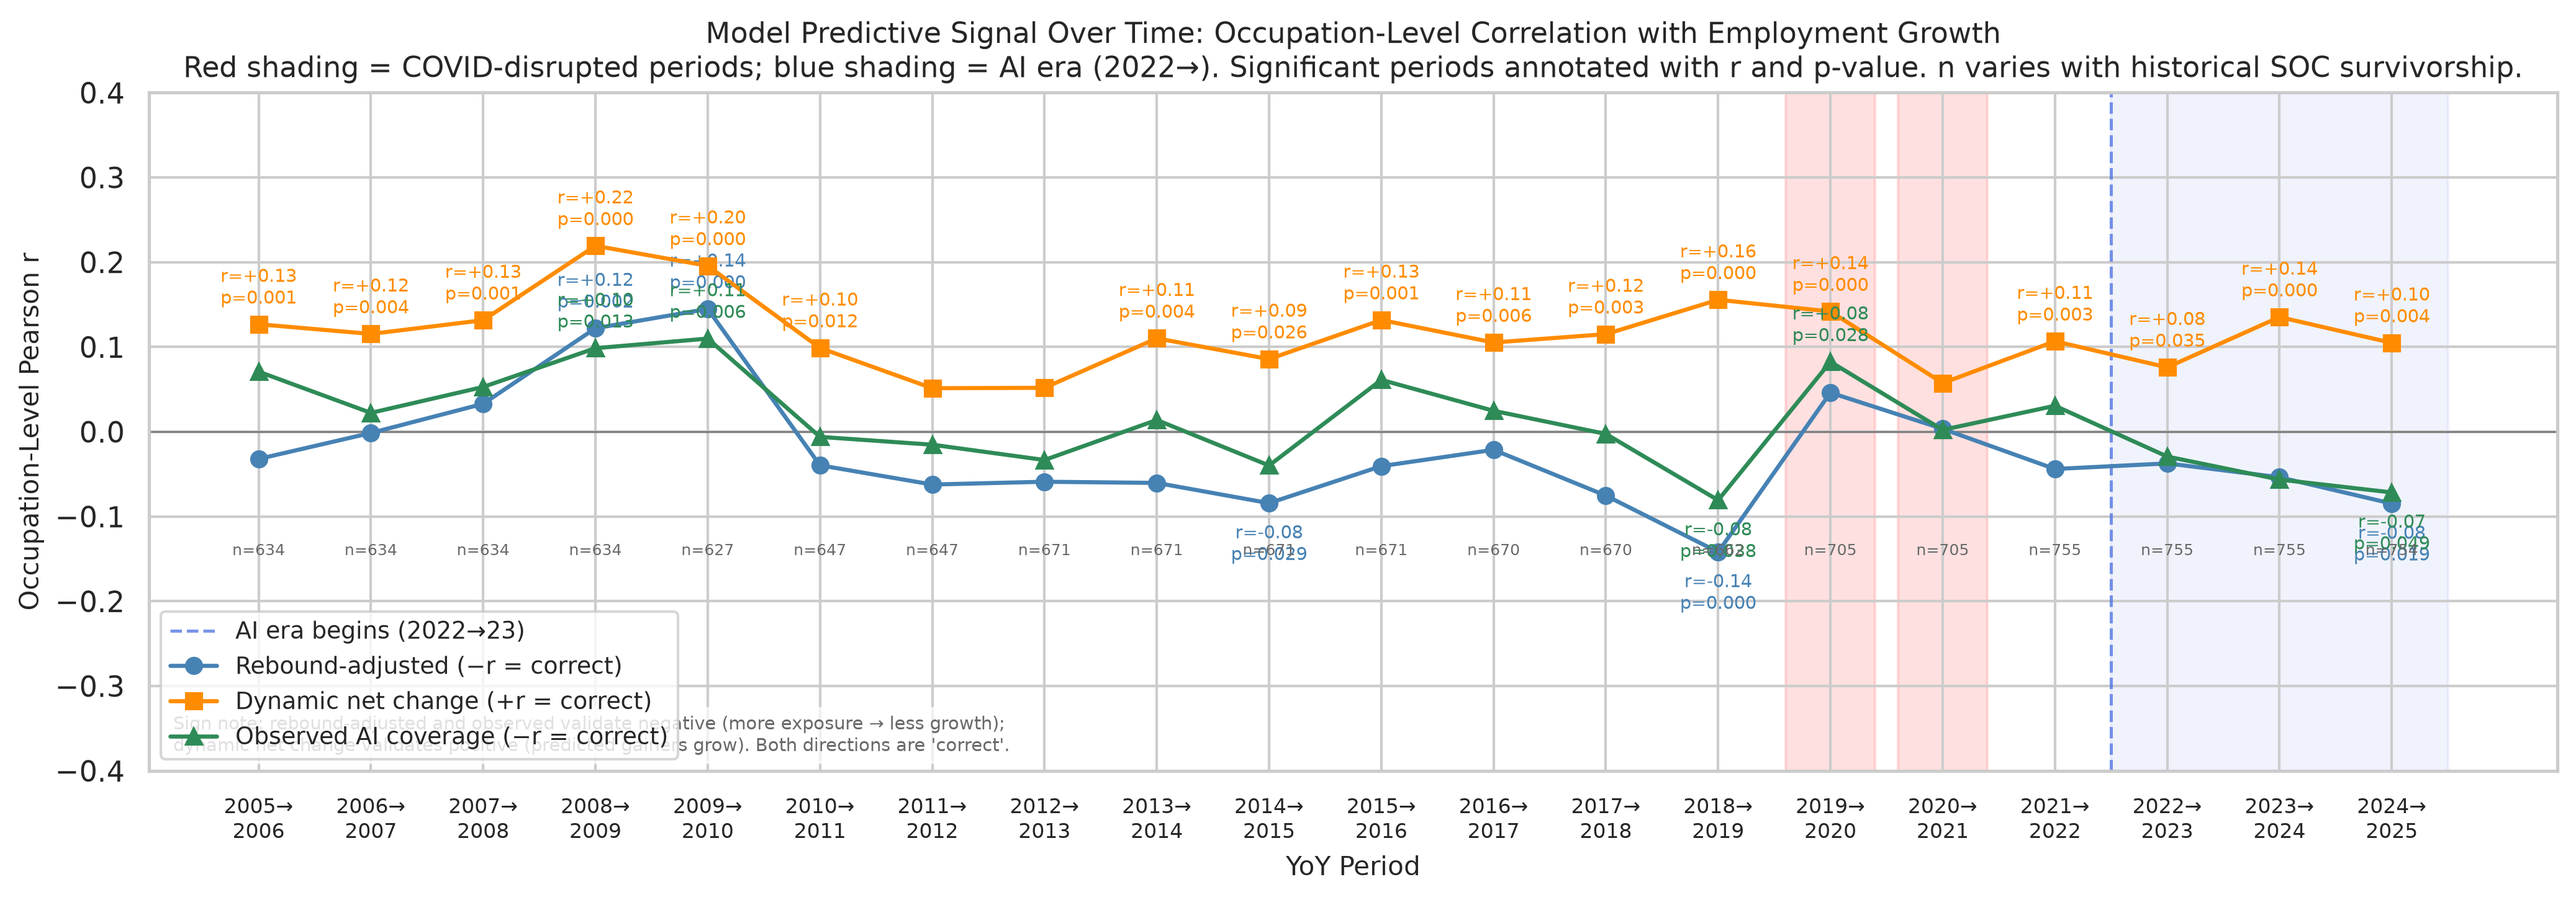
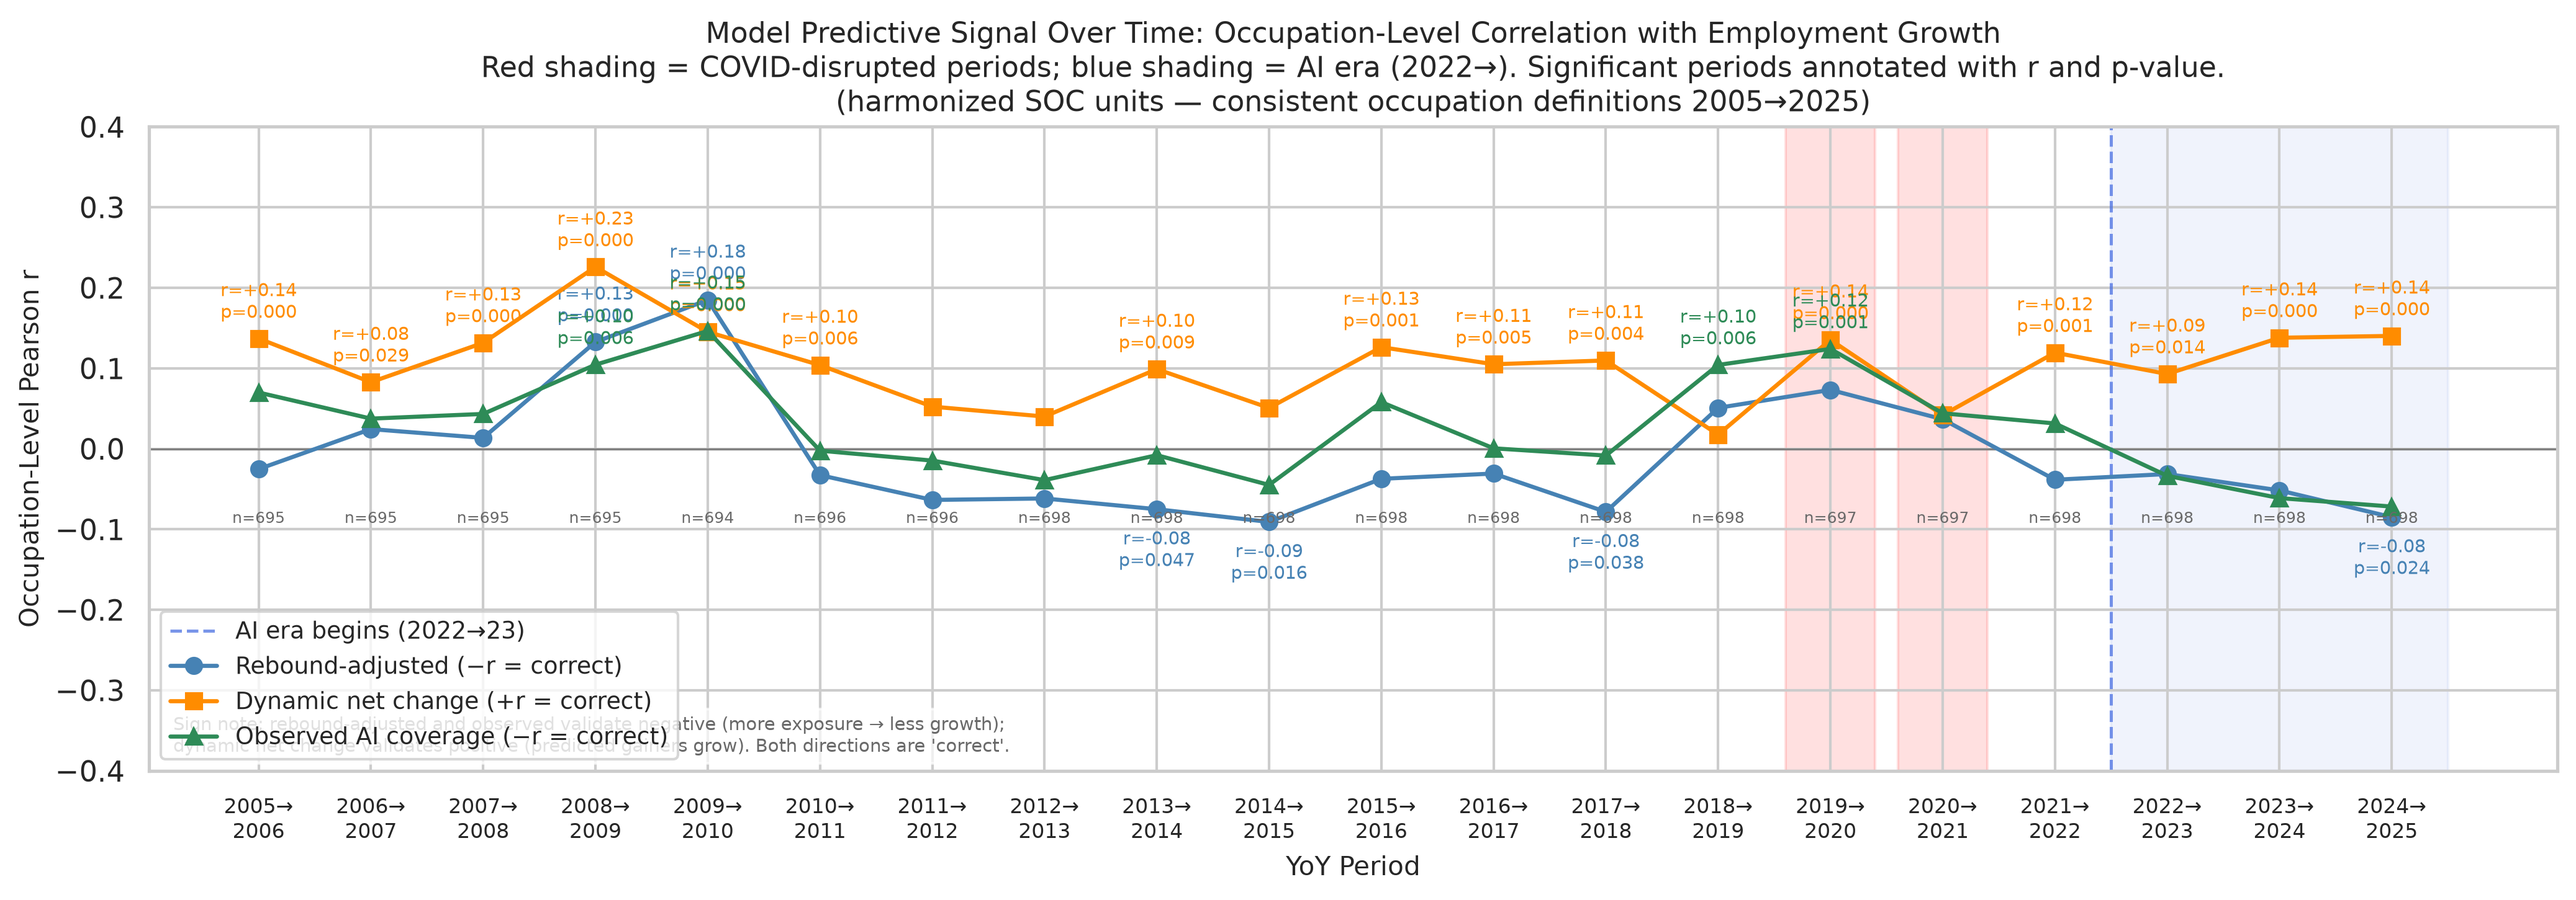
Run the occupation-level historical validation on harmonized units
The occupation-level signal-over-time chart now correlates unit scores —
the 2025-employment-weighted mean over each unit's 2022 members — against
unit growth from bls_harmonized_trends.csv, so pre-2019 points no longer
rest on whichever detailed codes survived the SOC revisions. n is close to
constant across periods. Sector-level results are unchanged.

Claude-Session: https://claude.ai/code/session_01ABsa9R4RRs4nbCa8W3Zz2Q

diff --git a/validate_bls.py b/validate_bls.py
@@ -643,13 +643,16 @@ def plot_model_signal_over_time_occupation(
     dynamic_validation_df: pd.DataFrame,
     output_dir: str,
     anthropic_exp_df: pd.DataFrame | None = None,
+    harmonized_trends_df: pd.DataFrame | None = None,
+    unit_membership_df: pd.DataFrame | None = None,
 ) -> None:
     """
     Occupation-level Pearson r between each model score and YoY employment growth,
     plotted as a time series spanning 2005→2025. Unlike the sector-level version,
-    no aggregation step is applied — each occupation is one data point. n varies by
-    period due to historical SOC code survivorship (~82% for 2005–2009, ~83–87%
-    for 2010–2018, higher for 2019+). Significant periods annotated with r, p, and n.
+    no sector aggregation step is applied — each occupation, or each harmonized
+    SOC unit, is one data point. n counts harmonized units when
+    bls_harmonized_trends.csv is present, else surviving 2022 codes. Significant
+    periods annotated with r, p, and n.
     """
 
     # Collect all YoY growth columns in chronological order
@@ -673,6 +676,8 @@ def plot_model_signal_over_time_occupation(
     if len(all_period_cols) < 2:
         return
 
+    latest_emp_col = sorted(c for c in merged_validation_df.columns if c.startswith("TOT_EMP_"))[-1]
+
     base_df = merged_validation_df.copy()
     base_df = base_df.merge(
         dynamic_validation_df[["OCC_CODE", "net_employment_change"]],
@@ -685,8 +690,30 @@ def plot_model_signal_over_time_occupation(
         obs_df = anthropic_exp_df.rename(columns=obs_col_map)[["OCC_CODE", "observed_exposure"]]
         base_df = base_df.merge(obs_df, on="OCC_CODE", how="left")
 
+    # On harmonized units every period is measured on the same occupation definitions,
+    # so n no longer swings with which detailed codes happened to survive a SOC revision.
+    use_units = harmonized_trends_df is not None and unit_membership_df is not None
+    if use_units:
+        score_cols_present = [
+            score_col for score_col in ("occupation_exposure", "net_employment_change", "observed_exposure") if score_col in base_df.columns
+        ]
+        unit_scores_df = build_unit_scores(base_df, unit_membership_df, latest_emp_col, score_cols_present)
+        growth_cols_present = [column for column in harmonized_trends_df.columns if "emp_growth_" in column]
+        base_df = unit_scores_df.merge(harmonized_trends_df[["unit_id"] + growth_cols_present], on="unit_id", how="inner")
+        hist_yoy = sorted(
+            [c for c in base_df.columns if c.startswith("hist_emp_growth_") and "_pre_ai" not in c],
+            key=_sort_period,
+        )
+        current_yoy = sorted(
+            [c for c in base_df.columns if c.startswith("emp_growth_") and "composite" not in c],
+            key=_sort_period,
+        )
+        all_period_cols = hist_yoy + current_yoy
+        if len(all_period_cols) < 2:
+            return
+
     def _occupation_r(emp_col: str, score_col: str) -> tuple[float, float, int] | None:
-        """Compute occupation-level Pearson r for one period and score column."""
+        """Compute unit- or occupation-level Pearson r for one period and score column."""
         subset = base_df[[score_col, emp_col]].dropna()
         if len(subset) < 20:
             return None
@@ -777,12 +804,18 @@ def plot_model_signal_over_time_occupation(
     ax.set_xticklabels(period_labels, fontsize=8)
     ax.set_ylabel("Occupation-Level Pearson r", fontsize=10)
     ax.set_xlabel("YoY Period", fontsize=10)
-    ax.set_title(
+    chart_title = (
         "Model Predictive Signal Over Time: Occupation-Level Correlation with Employment Growth\n"
         "Red shading = COVID-disrupted periods; blue shading = AI era (2022→). "
-        "Significant periods annotated with r and p-value. n varies with historical SOC survivorship.",
-        fontsize=11,
+        "Significant periods annotated with r and p-value."
     )
+    # Off units, n is whatever survived the SOC revisions; on units it is the unit count.
+    chart_title += (
+        "\n(harmonized SOC units — consistent occupation definitions 2005→2025)"
+        if use_units
+        else " n varies with historical SOC survivorship."
+    )
+    ax.set_title(chart_title, fontsize=11)
     ax.legend(fontsize=9, loc="lower left")
     ax.set_ylim(-0.4, 0.4)
 
@@ -1054,9 +1087,61 @@ def load_sector_growth_table(path: str = "data/output/bls_sector_trends.csv") ->
     return sector_trends_df.set_index("soc_major")
 
 
+def load_harmonized_trends(path: str = "data/output/bls_harmonized_trends.csv") -> pd.DataFrame | None:
+    """Unit-level trend series from analyze_bls.py; None (with a warning) if the analyze stage did not write it."""
+    if not os.path.exists(path):
+        print(f"Warning: {path} not found — occupation-level history will use surviving 2022 codes.")
+        return None
+    return pd.read_csv(path, dtype={"unit_id": str})
+
+
+def load_unit_membership(path: str = "data/output/soc_harmonization_units.csv") -> pd.DataFrame | None:
+    """Per-year unit membership from analyze_bls.py; None if absent."""
+    if not os.path.exists(path):
+        return None
+    return pd.read_csv(path, dtype={"unit_id": str, "year": str, "oews_code": str})
+
+
+def build_unit_scores(
+    merged_validation_df: pd.DataFrame,
+    unit_membership_df: pd.DataFrame,
+    employment_col: str,
+    score_cols: list[str],
+    anchor_year: str = "22",
+) -> pd.DataFrame:
+    """
+    Employment-weighted mean of each model score over a unit's anchor-year OEWS codes.
+
+    merged_validation_df is keyed on the 2022 OEWS code set, so a unit's score is
+    the weighted mean over its year-22 members that were scored. Weights are
+    renormalised over members with a non-missing score, and units with no scored
+    member are omitted.
+    """
+    anchor_members_df = unit_membership_df[unit_membership_df["year"] == anchor_year][["unit_id", "oews_code"]]
+    scored_members_df = anchor_members_df.merge(
+        merged_validation_df[["OCC_CODE", employment_col] + score_cols],
+        left_on="oews_code",
+        right_on="OCC_CODE",
+        how="inner",
+    )
+    unit_score_rows = []
+    for unit_id, member_rows_df in scored_members_df.groupby("unit_id"):
+        unit_score_row: dict[str, float | str] = {"unit_id": unit_id}
+        for score_col in score_cols:
+            scored_rows_df = member_rows_df.dropna(subset=[score_col, employment_col])
+            weight_total = scored_rows_df[employment_col].sum()
+            unit_score_row[score_col] = (
+                (scored_rows_df[score_col] * scored_rows_df[employment_col]).sum() / weight_total if weight_total > 0 else float("nan")
+            )
+        unit_score_rows.append(unit_score_row)
+    return pd.DataFrame(unit_score_rows, columns=["unit_id"] + score_cols)
+
+
 def main():
     bls_trends_df = pd.read_csv("data/output/bls_trends.csv")
     sector_growth_df = load_sector_growth_table()
+    harmonized_trends_df = load_harmonized_trends()
+    unit_membership_df = load_unit_membership()
     occupation_exposure_df = pd.read_csv("data/output/occupation_exposure_report.csv")
 
     occupation_exposure_df["OCC_CODE"] = occupation_exposure_df["O*NET-SOC Code"].astype(str).str.split(".").str[0]
@@ -1383,7 +1468,14 @@ def main():
     plot_model_signal_over_time(
         merged_validation_df, dynamic_validation_df, output_dir, _anthropic_exp_df, signal_cps_panel_df, sector_growth_df=sector_growth_df
     )
-    plot_model_signal_over_time_occupation(merged_validation_df, dynamic_validation_df, output_dir, _anthropic_exp_df)
+    plot_model_signal_over_time_occupation(
+        merged_validation_df,
+        dynamic_validation_df,
+        output_dir,
+        _anthropic_exp_df,
+        harmonized_trends_df=harmonized_trends_df,
+        unit_membership_df=unit_membership_df,
+    )
 
     # ── AI exposure volume ────────────────────────────────────────────────────
     # exposure_volume = (occupation employment / total modeled employment) × mean_penetration

diff --git a/tests/test_pipeline.py b/tests/test_pipeline.py
@@ -30,6 +30,7 @@ from synthesize_impacts import (
     derive_exposure_tier,
     rollup_to_occupation,
 )
+from validate_bls import build_unit_scores
 
 
 def _task_df(rows):
@@ -621,3 +622,29 @@ class TestAttachDominantDemand:
             )[0]
             assert row["dominant_demand"] == expected
             assert row["dominant_strength"] == pytest.approx(row[f"pct_{expected.lower()}"])
+
+
+class TestBuildUnitScores:
+    def test_scores_are_employment_weighted_over_anchor_year_members(self):
+        merged_validation_df = pd.DataFrame(
+            {
+                "OCC_CODE": ["15-1252", "15-1253", "11-9013"],
+                "TOT_EMP_25": [1000.0, 200.0, 50.0],
+                "occupation_exposure": [0.10, 0.40, 0.02],
+                "net_employment_change": [0.15, None, -0.05],
+            }
+        )
+        unit_membership_df = pd.DataFrame(
+            {
+                "unit_id": ["U-15-1252", "U-15-1252", "U-15-1252", "U-11-9013", "U-99-0000"],
+                "year": ["22", "22", "21", "22", "22"],
+                "oews_code": ["15-1252", "15-1253", "15-1132", "11-9013", "99-0000"],
+            }
+        )
+        unit_scores_df = build_unit_scores(
+            merged_validation_df, unit_membership_df, "TOT_EMP_25", ["occupation_exposure", "net_employment_change"]
+        ).set_index("unit_id")
+        assert unit_scores_df.loc["U-15-1252", "occupation_exposure"] == pytest.approx(0.15)
+        assert unit_scores_df.loc["U-15-1252", "net_employment_change"] == pytest.approx(0.15)
+        assert unit_scores_df.loc["U-11-9013", "occupation_exposure"] == pytest.approx(0.02)
+        assert "U-99-0000" not in unit_scores_df.index

diff --git a/docs/charts/model_signal_over_time_occupation.md b/docs/charts/model_signal_over_time_occupation.md
@@ -8,9 +8,9 @@
 
 Occupation-level Pearson r between each model score and YoY BLS employment growth,
 plotted as a time series spanning 2005→2025. Unlike the sector-level version
-(`model_signal_over_time.png`), no aggregation step is applied — each occupation
-is one data point. n varies by period due to historical SOC code survivorship
-and is annotated along the bottom of the chart.
+(`model_signal_over_time.png`), no sector aggregation step is applied — each
+harmonized SOC unit is one data point. n is annotated along the bottom of the
+chart and is now close to constant across periods (see *Harmonized units* below).
 
 | Line | Score | Correct sign | Direction |
 |------|-------|:------------:|-----------|
@@ -26,7 +26,7 @@ the AI era (2022→23 onward); significant periods (p < 0.05) are annotated with
 The sector-level chart (`model_signal_over_time.png`) aggregates occupations to 22
 SOC major groups first and correlates those 22 group means. That version has low
 power (n=22) but suppresses within-group noise by averaging. This chart operates on
-raw occupations (n ≈ 400–830 depending on the period), giving much higher statistical
+harmonized occupation units (n ≈ 695 in every period), giving much higher statistical
 power — a much smaller |r| is detectable — but also more noise from individual
 occupation volatility.
 
@@ -53,16 +53,47 @@ variation, but the negative direction is persistent.
 concentration in low-exposure physical occupations temporarily pushes gross models
 toward negative r regardless of mechanism.
 
-## Survivorship note
+## Harmonized units
 
-Historical BLS files use different SOC code generations (SOC 2000 for 2005–2009,
-SOC 2010 for 2010–2018). The occupation set is anchored at 2022 (SOC 2018 codes)
-and all earlier years are left-joined. Occupations whose codes changed across
-generations produce NaN for those historical columns and are excluded from those
-periods' correlations. Survivorship is ~82% for 2005–2009, ~83–87% for 2010–2018
-overall, but it is very uneven by sector — Computer and Mathematical keeps 3% of
-its employment before 2019 — so pre-2019 points here under-represent the sectors
-the SOC 2018 revision renumbered. The sector-level chart avoids this by using
-major-group totals; this occupation-level chart cannot, short of a full SOC
-crosswalk harmonisation, which is not implemented. The per-period n is shown at
-the bottom of the chart.
+Each point in a period's correlation is a **harmonized unit**, not a raw BLS
+occupation code. A unit is a connected component of the published BLS SOC
+crosswalks (SOC 2000 → SOC 2010 → SOC 2018) plus the OEWS hybrid structure,
+built by `harmonize_soc.py` and written to
+`data/output/soc_harmonization_units.csv`. Where a revision split one
+occupation into three, or merged three into one, all of those codes land in the
+same unit, so the unit means the same thing in 2005 as it does in 2025.
+
+**Why this is necessary.** Anchoring on the 2022 code set and left-joining
+earlier years keeps only the codes that happened to survive each revision —
+about 82% for 2005–2009 and 83–87% for 2010–2018 overall, but very uneven by
+sector. SOC 2018 renumbered every computer code, so Computer and Mathematical
+kept four maths occupations, roughly 3% of its employment, before 2019. Pre-2019
+points computed that way silently under-represented exactly the sectors the
+models care most about. Correlating on units removes that selection: the same
+occupation definitions carry the whole 2005→2025 span.
+
+**What n is.** The unit file holds 751 units. A unit enters the chart when at
+least one of its 2022 OEWS member codes carries a model score — 706 do — and
+drops out of a period only when its growth for that period is NaN, leaving
+n ≈ 695 in every period. Before harmonization the pre-2019 n sat around 650–690
+and dipped unevenly by sector; it is now essentially flat, so movement in the
+lines is signal rather than a changing sample.
+
+A unit's score is the 2025-employment-weighted mean over its scored 2022
+members, with weights renormalised over the members that actually have the
+score; its growth comes from `data/output/bls_harmonized_trends.csv`, which sums
+each unit's member employment per year before differencing.
+
+**Where a unit is still NaN.** A unit's year is NaN — never 0 — when its
+membership for that year is incomplete: a member code OEWS publishes was
+suppressed or absent from that year's file. Summing the members that remain
+would read as a collapse in employment rather than as the missing observation
+it is. That is what keeps n a few units short of 706 rather than exactly equal.
+
+**The one approximation is residual pruning.** Crosswalk edges that run between
+a residual "All Other" catch-all and a named occupation are dropped before the
+components are cut — left in, the catch-alls chain unrelated occupations
+together until most of a major group fuses into a single unit. 62 edges are
+pruned, and every one is listed in
+`data/output/soc_harmonization_pruned_edges.csv` with its source and target
+code and title, so the approximation is auditable rather than implicit.

diff --git a/CLAUDE.md b/CLAUDE.md
@@ -153,7 +153,7 @@ The release job holds `contents: write` and `pull-requests: write`. It opens a p
 | `cps_rebound_model_vs_actual.png` | `validate_bls.py` | Scatter: employment-weighted rebound-adjusted exposure score per SOC major group vs. CPS growth since the OEWS reference month; year-over-year r reported in the subtitle. See `docs/charts/cps_model_vs_actual.md`. |
 | `cps_dynamic_model_vs_actual.png` | `validate_bls.py` | Scatter: employment-weighted dynamic net employment change per SOC major group vs. CPS growth since the OEWS reference month; year-over-year r reported in the subtitle. See `docs/charts/cps_model_vs_actual.md`. |
 | `model_signal_over_time.png` | `validate_bls.py` | Sector-level Pearson r by YoY period (2015→2025) for rebound-adjusted, dynamic, and Anthropic observed models. 2022 boundary and COVID years marked. Tests whether the AI-era signal is pre-existing or emerges post-2022. A separate right-hand panel adds the 2025→2026 span from CPS A-19 — different survey, drawn unconnected on an endpoint-month axis so it is not read as a continuation of the OEWS line. See `docs/charts/model_signal_over_time.md`. |
-| `model_signal_over_time_occupation.png` | `validate_bls.py` | Same layout as above but occupation-level (no sector aggregation). n varies by period due to historical SOC survivorship, annotated at bottom. Higher power, noisier than sector-level version. See `docs/charts/model_signal_over_time_occupation.md`. |
+| `model_signal_over_time_occupation.png` | `validate_bls.py` | Same layout as above but occupation-level (no sector aggregation). Each point is a harmonized SOC unit from `soc_harmonization_units.csv`, so the same occupation definitions carry every period and n is near-constant (~695, annotated at bottom) instead of moving with SOC survivorship. Higher power, noisier than sector-level version. See `docs/charts/model_signal_over_time_occupation.md`. |
 
 ## Coding Standards
 
